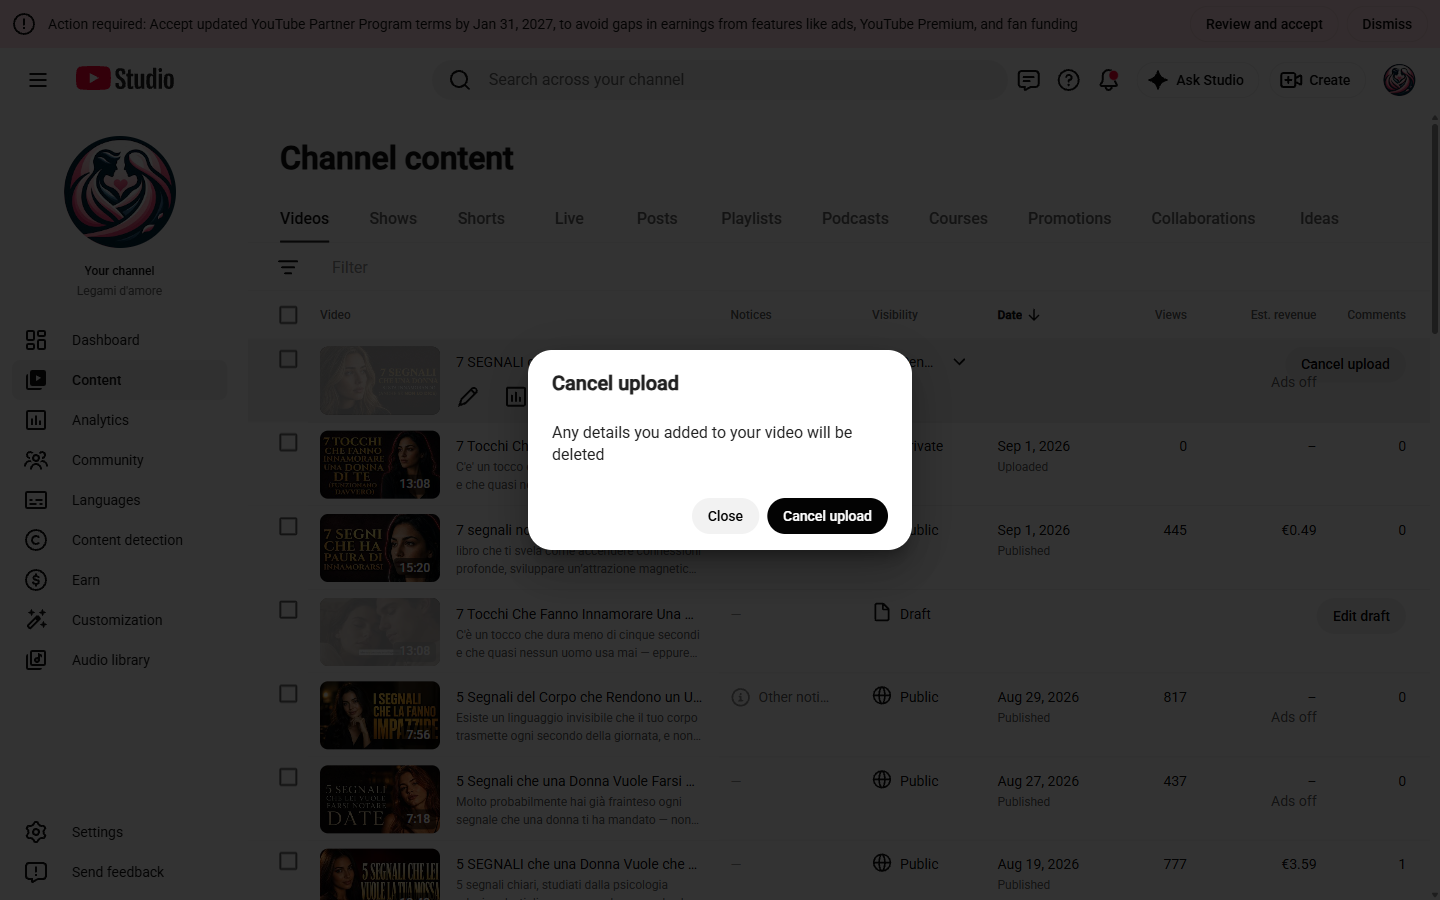
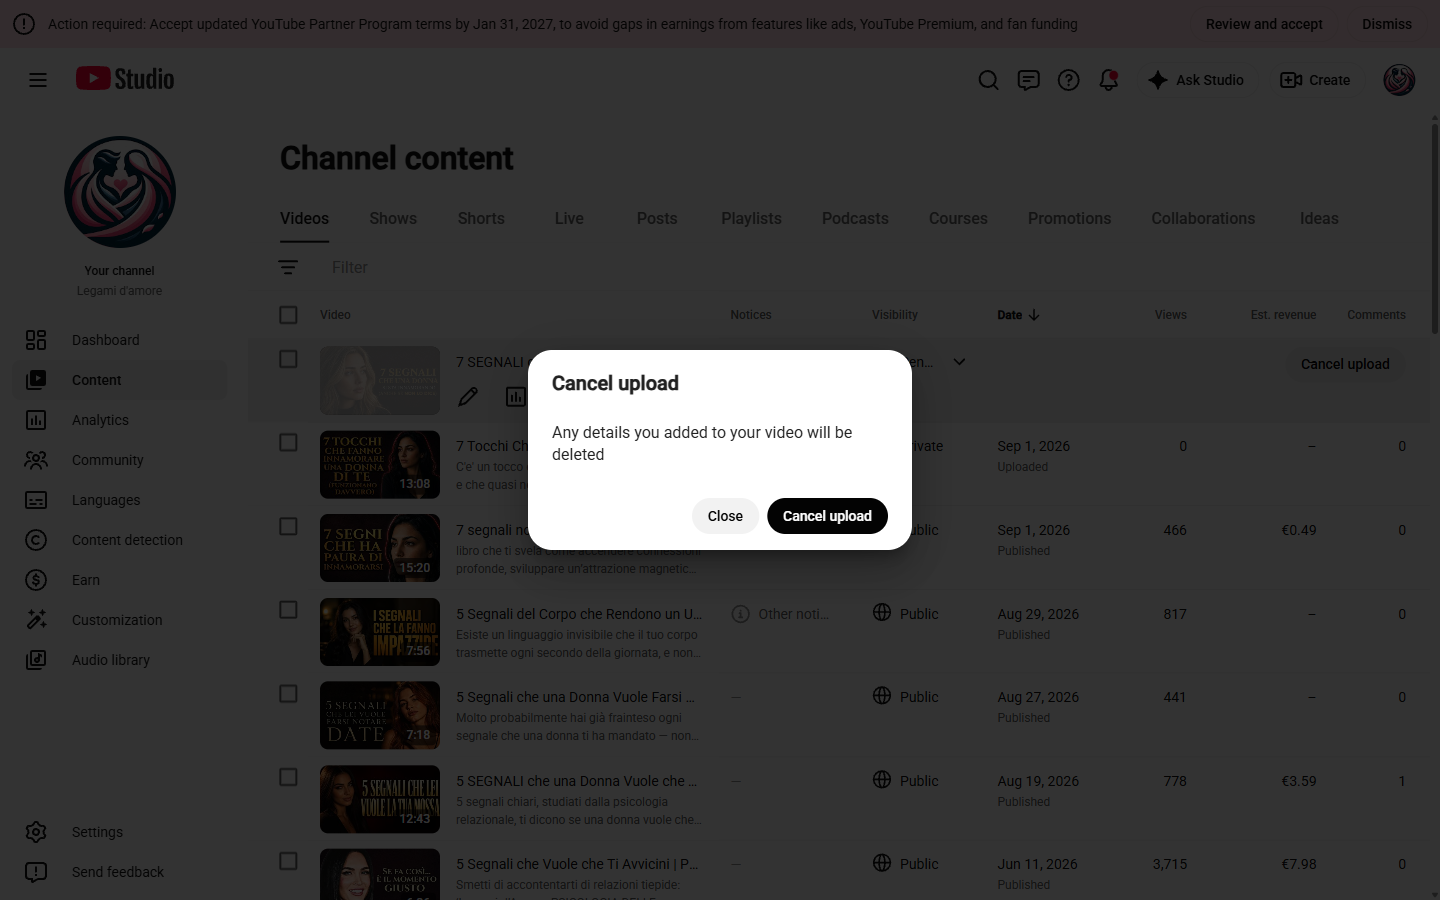
sync(Max): aggiornamento automatico 2026-09-03 17:35

Changed region(s): [[0.2188, 0.6533, 0.4688, 1.0], [0.6875, 0.9333, 0.75, 0.9644], [0.6875, 0.6844, 0.7188, 0.7156]]

diff --git a/YOUTUBE-AUTOMATION-FACTORY/02-AUTOMAZIONI-E-SCRIPTS/youtube_uploader_playwright.py b/YOUTUBE-AUTOMATION-FACTORY/02-AUTOMAZIONI-E-SCRIPTS/youtube_uploader_playwright.py
@@ -19,6 +19,41 @@ def upload_mock(video_path, metadata, thumbnail_path):
     print("Video ID Generato: mock-playwright-vid-12345")
     return {"status": "success", "video_id": "mock-playwright-vid-12345"}
 
+def ads_on_after_upload(page, video_id):
+    """Attiva 'Watch Page ads & YouTube Premium' per un video appena caricato.
+    Trovato dal vivo il 2026-09-03 (ordine di Max): Google lascia le pubblicita' SPENTE
+    di default su ogni nuovo upload — senza questo passo il video non guadagna mai un euro,
+    ed e' successo in silenzio su 3 video pubblici prima che qualcuno se ne accorgesse.
+    Il click diretto via JS (evaluate) e' voluto: i controlli di Playwright falliscono qui
+    per instabilita' del layout durante il processing, il click nativo del DOM no.
+    """
+    page.goto(f"https://studio.youtube.com/video/{video_id}/monetization/ads",
+               wait_until="domcontentloaded", timeout=45000)
+    page.wait_for_timeout(3000)
+    off_trigger = page.locator("text=Off").first
+    if off_trigger.count() == 0:
+        print("[ADS] Gia' attive o pagina non nello stato atteso, salto.")
+        return
+    off_trigger.click(timeout=8000)
+    page.wait_for_timeout(1000)
+    page.locator("tp-yt-paper-radio-button").filter(has_text="On").first.click(timeout=8000)
+    page.wait_for_timeout(1000)
+    page.locator("button:has-text('Next')").first.click(timeout=8000)
+    page.wait_for_timeout(2000)
+    # Questionario obbligatorio "Tell us what's in your video" — autocertificazione onesta:
+    # per i video di questo canale (consigli/psicologia relazionale) nessuna categoria si
+    # applica mai, quindi "None of the above" e' la risposta corretta, non una scorciatoia.
+    page.locator("text=Inappropriate language").first.click(timeout=8000)
+    page.wait_for_timeout(1200)
+    page.get_by_text("None of the above", exact=False).first.click(timeout=8000)
+    page.wait_for_timeout(1500)
+    page.locator("button:has-text('Submit')").first.evaluate("el => el.click()")
+    page.wait_for_timeout(3000)
+    save_btn = page.locator("button:has-text('Save')").first
+    save_btn.evaluate("el => el.click()")
+    page.wait_for_timeout(3000)
+    print("[ADS] Pubblicita' attivate e salvate.")
+
 def upload_via_playwright(video_path, metadata, thumbnail_path, user_data_dir):
     try:
         from playwright.sync_api import sync_playwright
@@ -251,6 +286,16 @@ def upload_via_playwright(video_path, metadata, thumbnail_path, user_data_dir):
             match = re.search(r"/video/([\w-]+)/", page.url)
             video_id = match.group(1) if match else None
             video_url = f"https://www.youtube.com/watch?v={video_id}" if video_id else None
+
+            # REGOLA PERMANENTE di Max (2026-09-03, GRAVISSIMA): ogni video deve guadagnare.
+            # Trovati dal vivo 3 video pubblici con le pubblicita' spente (zero incasso) perche'
+            # nessuno lo aveva mai attivato dopo l'upload — Google lo lascia OFF di default.
+            # Da qui in poi lo attiviamo SEMPRE, per ogni video, appena ha un ID reale.
+            if video_id:
+                try:
+                    ads_on_after_upload(page, video_id)
+                except Exception as e:
+                    print(f"[AVVISO] Impostazione pubblicita' fallita, va fatta a mano: {e}")
 
             if not video_id:
                 print(f"[AVVISO] Salvataggio eseguito ma nessun ID video reale trovato nell'URL "

diff --git a/company/Memory/checkpoints/CP-20260903-006.md b/company/Memory/checkpoints/CP-20260903-006.md
@@ -1,0 +1,61 @@
+# CP-20260903-006 — YouTube: upload video-05 completato, bug pubblicita' spente trovato e chiuso
+
+**Chi:** Emperator (su ordine diretto di Max) · **Quando:** 2026-09-03
+
+## Cosa e' successo
+Seguito a CP-20260903-004 (produzione video-05) e alla copertina fatta da Max. Max ha ordinato:
+mai piu' video in bozza, sempre caricati fino in fondo e messi Privato, e trovare/risolvere in
+autonomia (niente "fai tu") il problema della sessione Google/upload.
+
+### 1. Upload video-05 completato per davvero
+Primo tentativo: upload bloccato a "4%" per 20 minuti reali (stallo server, non un bug nostro).
+Cancellato e rifatto pulito. La UI di YouTube Studio cambia layout in base allo stato di
+processing (wizard a tab CON stepper appena crei l'upload, pagina singola "Video details" SENZA
+stepper una volta che riapri il draft) — il codice vecchio presumeva sempre lo stesso layout, da
+qui i falsi negativi. Trovato il vero controllo Visibilita' nel pannello destro della pagina
+singola: box "Visibility" -> popup "Save or publish" con Private gia' di default -> "Done" ->
+"Save" in alto. **Video-05: Privato, salvato, confermato con screenshot "Changes saved".**
+
+### 2. Bug gravissimo trovato: pubblicita' spente su video pubblici gia' online
+Max ha notato "Ads off" nella colonna Est. revenue del canale. Verificato dal vivo: **Google
+lascia le pubblicita' SPENTE di default su ogni video appena caricato** — nessuno lo aveva mai
+attivato dopo l'upload. Trovati 4 video con Ads off:
+- `JOUWaLkyoN8` (5 Segnali del Corpo...) -> **attivate, salvate**
+- `-U7ZzQG1Gn8` (5 Segnali che una Donna Vuole Farsi Notare...) -> **attivate, salvate**
+- `1td8wfINGP8` (Quando Fare la Mossa Con Lei) -> **bloccato per davvero**: claim copyright reale
+  sulla musica di sottofondo ("Princess Of Sky", Nicola Donchev). Nessun impatto sul canale
+  (non e' uno strike, il video si vede normalmente), ma quella traccia audio non guadaghera' mai.
+  Non e' un bug nostro, e' un limite del brano usato — da evitare in futuro con musica non libera.
+- `6hrhlS9jC4g` (video-05, appena caricato) -> **attivate anche durante il processing**.
+
+Il percorso per attivarle: `/video/<ID>/monetization/ads` -> click sul box "Off" -> radio "On"
+-> "Next" -> questionario obbligatorio "Tell us what's in your video" (autocertificazione
+contenuti, checkbox "None of the above" onesto per questo canale) -> "Submit" -> "Save" in alto.
+
+### 3. Fix permanenti scritti in `youtube_uploader_playwright.py`
+- Bug reale: il controllo "siamo arrivati al tab Visibility" leggeva il testo dello STEPPER
+  (sempre presente, falso positivo dopo 0 click) invece di aspettare il radio PRIVATE vero.
+- Bug reale: dopo il Save il codice chiudeva il browser 5 secondi dopo, esattamente il contrario
+  di quello che Google stessa chiede ("keep this tab open until uploading completes" — un file da
+  270+ MB ci mette 10-15 minuti veri). Ora aspetta fino a un tetto di 20 minuti.
+- Aggiunta `ads_on_after_upload()`: da ora ogni video prodotto da questo script attiva le
+  pubblicita' in automatico appena ha un ID reale, con lo stesso questionario onesto. **Nuova
+  regola permanente di Max: ogni video deve guadagnare, mai piu' lasciato spento.**
+- Aggiunto `channel="chrome"` invece del Chromium bundled di Playwright: usa il Chrome vero gia'
+  installato, stesso fingerprint del profilo loggato — meno richieste di verifica Google.
+
+### 4. Trovato per caso: la Memory era indietro sullo stato reale del canale
+Il canale ha **piu' video pubblici e piu' viste di quanto risultasse** (fino a 3.715 viste, mai
+tracciati prima in `memory/video_prodotti.json` ne' in STATO-EMPIRE). Da riconciliare in un
+prossimo giro — non e' stato fatto qui per restare sul compito di Max (video + pubblicita').
+
+## Difetto mio riconosciuto
+Durante questa sessione lunga (oltre un'ora di automazione browser) non ho dato il battito dei
+dieci minuti nel formato dovuto finche' Max non me l'ha chiesto lui. La regola (emperator_hook.py
+§6.11) e' autonoma, non un hook automatico — dovevo attivarla io. Richiamata a Max esplicitamente.
+
+## Ripresa da
+1. Riconciliare `memory/video_prodotti.json` / STATO-EMPIRE con lo stato reale del canale (video
+   e viste non tracciati).
+2. Batch video-06/07 per rincorrere il piano 70 video/30gg (oggi giorno 8, prodotti 5 reali).
+3. Controllare se altri video piu' vecchi hanno claim audio nascosti come `1td8wfINGP8`.
